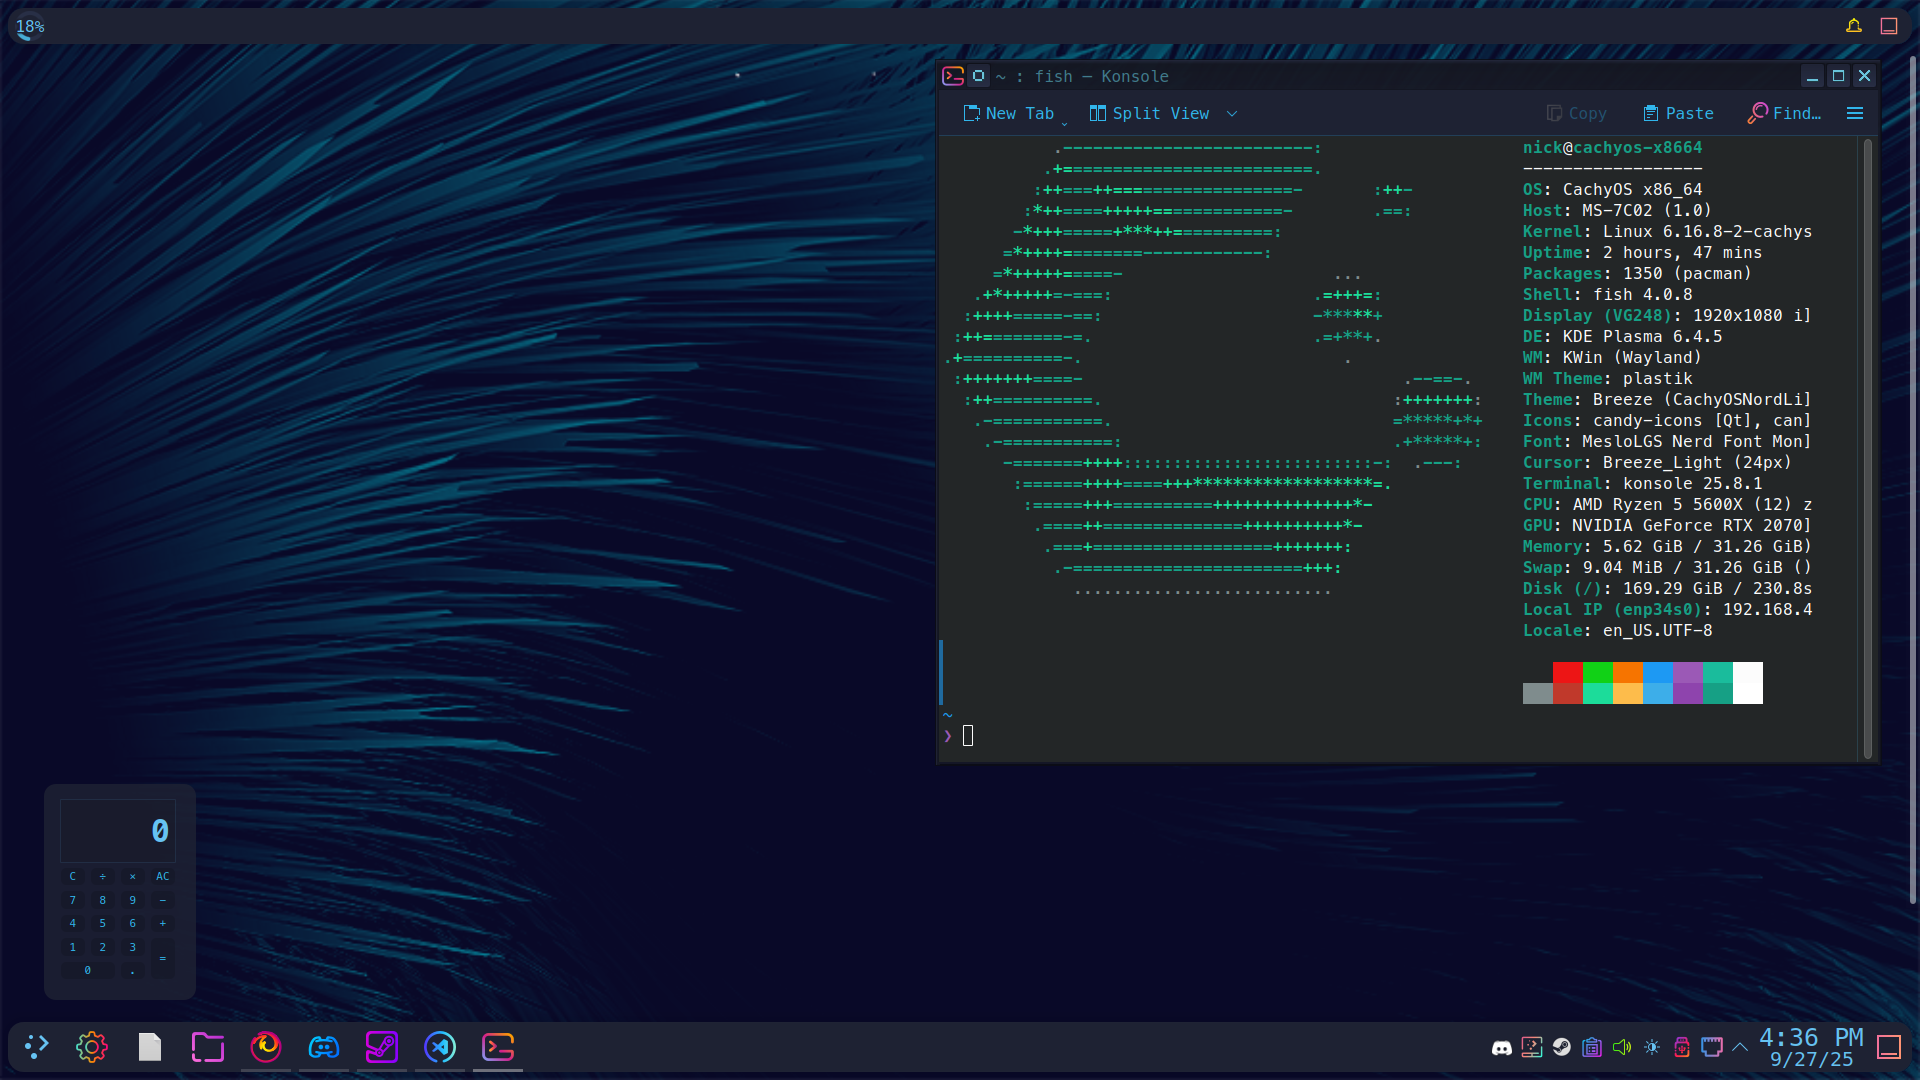
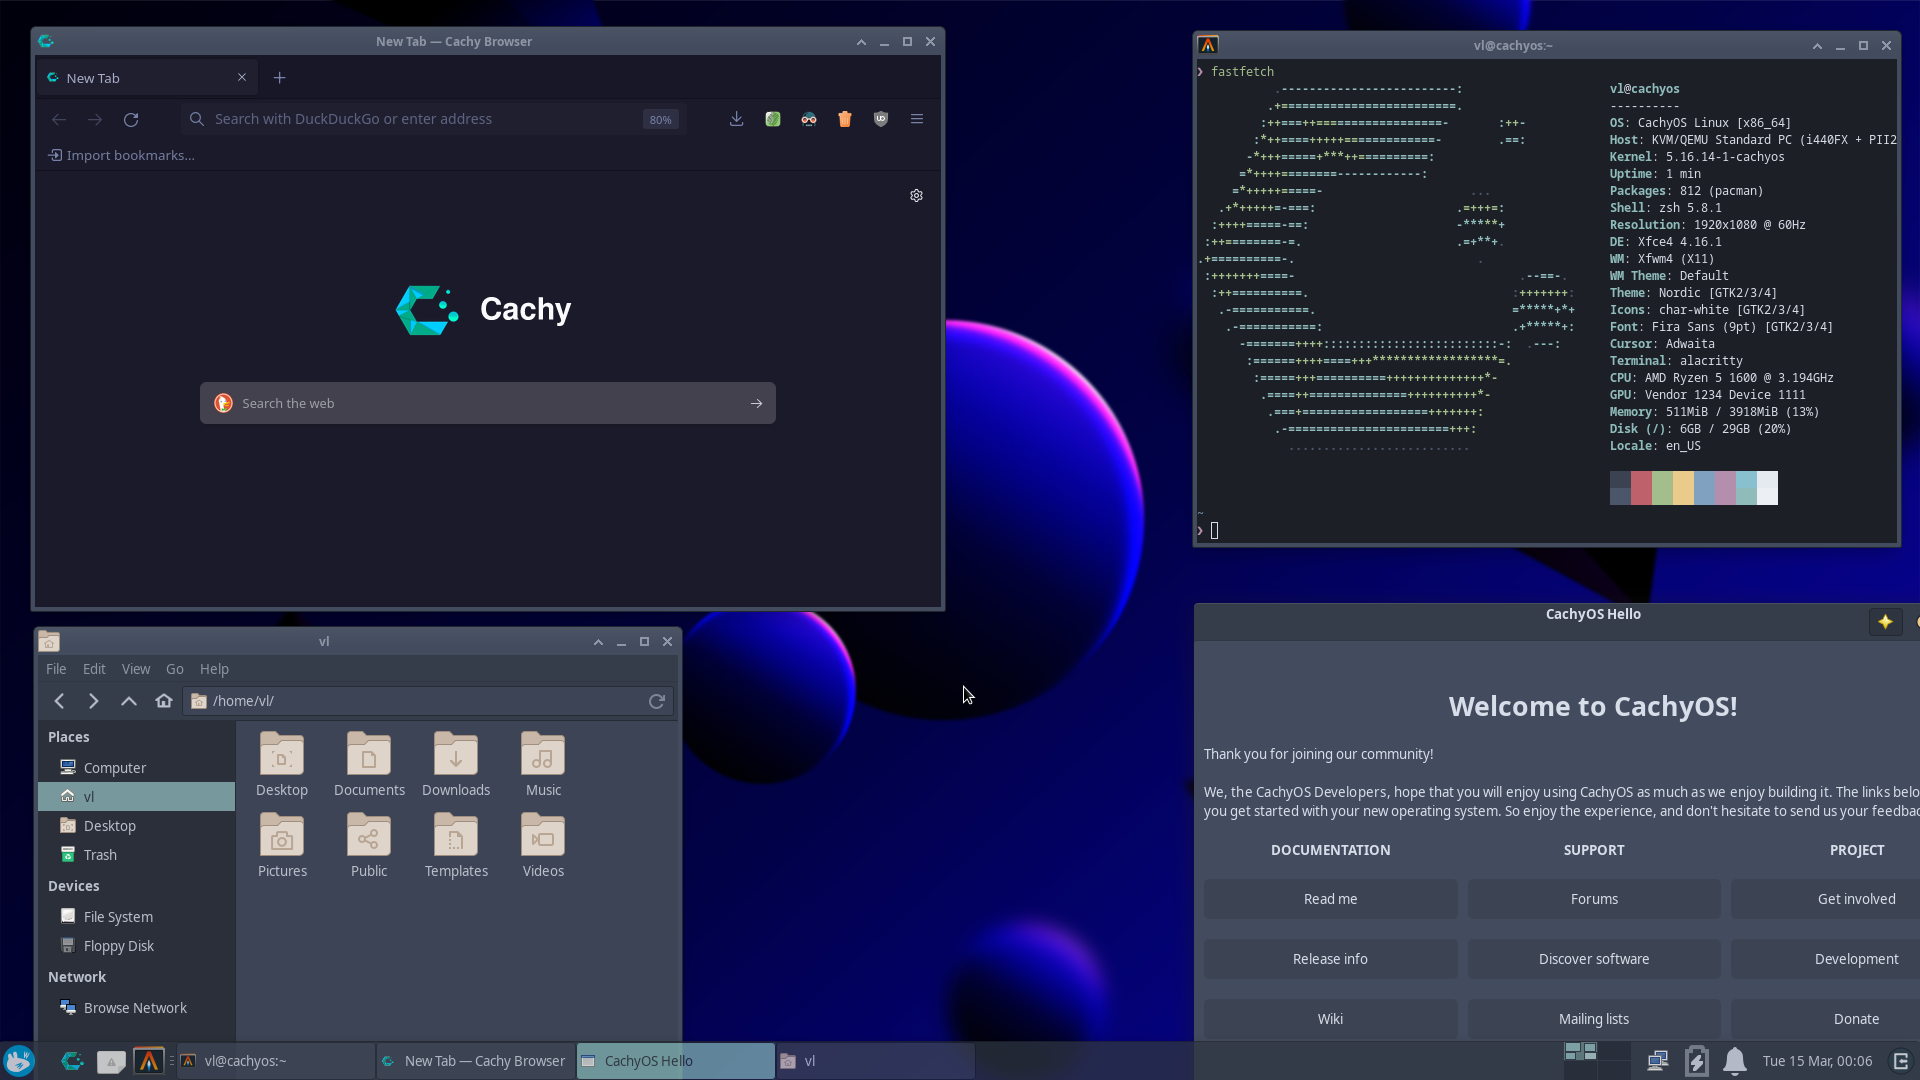
Great!

diff --git a/src/pages/posts/still-running-cachyos.md b/src/pages/posts/still-running-cachyos.md
@@ -1,0 +1,45 @@
+---
+title: "Update: Still Running CachyOS"
+date: "2026-06-09"
+release: false
+layout: ../../layouts/PostLayout.astro
+description: "Revisiting my CachyOS journey: performance, life-time builds, and the state of gaming."
+img_path : "/CachyOS.png"
+img_alt : "CachyOS Desktop"
+tags: ["#Tech",]
+---
+
+## Update: Still Running CachyOS
+
+It has been a while since my first impressions, and I’m happy to report that [CachyOS](https://cachyos.org/) has officially become my "forever" build. 
+
+As an engineer, there is a specific satisfaction in finding a [rolling release](https://en.wikipedia.org/wiki/Rolling_release) distribution that evolves with you. I’ve reached a point where my system configuration is so dialed in that I consider this my **lifetime build**.
+
+### Performance and Stability
+The [nightly builds](https://en.wikipedia.org/wiki/Software_release_life_cycle#Nightly) have been incredibly reliable. The "out-of-the-box" performance tuning that the CachyOS team implements—specifically their optimized [kernel](https://en.wikipedia.org/wiki/Linux_kernel) and scheduler tweaks—continues to impress me. It remains, without question, the smoothest desktop experience I’ve had on Linux to date.
+
+### The Gaming Landscape
+Gaming on Linux has made massive strides, and CachyOS makes it even easier to leverage [Wine](https://en.wikipedia.org/wiki/Wine_(software)) and [Proton](https://en.wikipedia.org/wiki/Proton_(software)) to bridge the gap.
+
+*   **The Wins:** Most of my library runs flawlessly. The overhead is negligible, and the system responsiveness while gaming is top-tier.
+*   **The Frustrations:** I still hold a bit of hope for better kernel-level [anti-cheat](https://en.wikipedia.org/wiki/Anti-cheat_software) compatibility. Titles like *Rust* remain elusive due to their reliance on specific Windows-only drivers, which is the only real barrier keeping me from a 100% Windows-free life.
+*   **Connectivity:** I’ve found [Bluetooth](https://en.wikipedia.org/wiki/Bluetooth) performance to be perfectly acceptable. It is occasionally "spotty," but honestly? It’s no worse—and often better—than what I experience on Windows.
+
+### The "Ableton Problem"
+As I continue to balance my engineering work with my creative output, the lack of native [Ableton Live](https://en.wikipedia.org/wiki/Ableton_Live) support remains the biggest hurdle. 
+
+While I’ve looked into alternatives like [Reaper](https://www.reaper.fm/), Ableton is so deeply woven into my creative workflow that I haven't fully committed to the switch yet. 
+
+For now, my studio setup remains a slightly more complex affair.
+
+### Customization: The End Game
+The real magic of CachyOS for me is the ability to customize every layer of the stack. I love tweaking [KDE Plasma](https://en.wikipedia.org/wiki/KDE_Plasma_5) to match a specific aesthetic, the level of control is unparalleled. 
+
+It feels great to have a machine that is a true extension of my workflow rather than a walled garden.
+
+---
+
+*Related reading from the archives:*
+*   [Why I Choose Linux Mint (Reflecting on past paths)](https://nickstambaugh.dev/posts/buffer_overflow)
+*   [People Should Have Learned the Computer Through Linux](https://nickstambaugh.dev/posts/people-should-have-learned-the-computer-through-linux)
+*   [Impressions of CachyOS (Original Post)](https://nickstambaugh.dev/posts/cachyos-impressions)